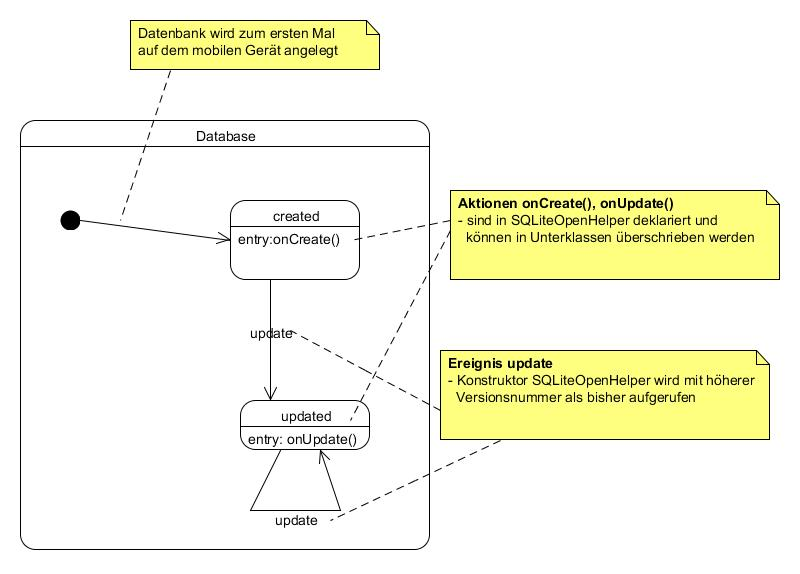
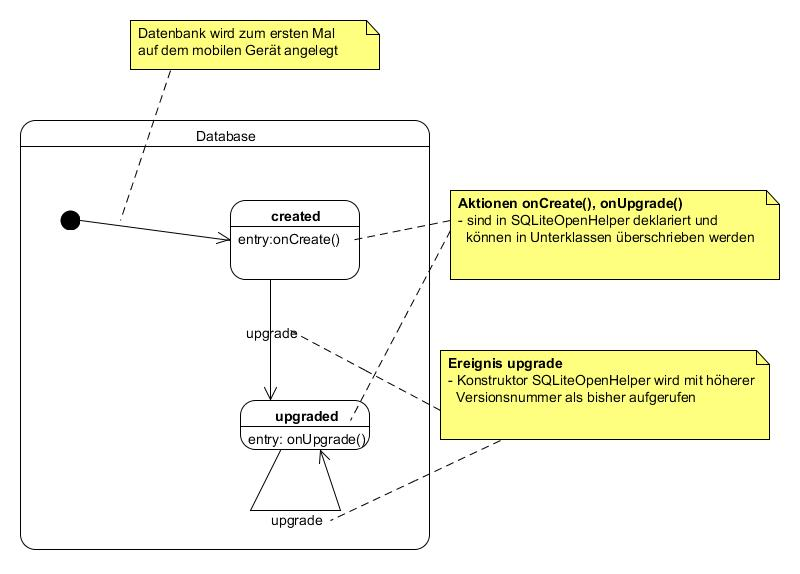
PersonDB model update -> upgrade PersonDB insert initial data into DB - use insert() instead SQL-code due to errors on some devices

diff --git a/PersonDB/src/de/htw/selabs/android/namenmanagement/database/PersonTable.java b/PersonDB/src/de/htw/selabs/android/namenmanagement/database/PersonTable.java
@@ -1,62 +1,80 @@
 package de.htw.selabs.android.namenmanagement.database;
 
+import android.content.ContentValues;
 import android.database.sqlite.SQLiteDatabase;
+import android.provider.SyncStateContract.Columns;
 import android.util.Log;
 
 /**
- * Represents a database table. Has information about the table, e.g. its name and the 
- * name of the columns.
+ * Represents a database table. Has information about the table, e.g. its name
+ * and the name of the columns.
+ * 
  * @author baar
- *
+ * 
  */
 
 public class PersonTable {
 
-	static final String TABLE_NAME = "person"; 
+	static final String TABLE_NAME = "person";
 	// columns of database table
-	static final String COL_ROWID = "_id"; // never change, Android relies on it!!!
-	public static final String COL_FIRSTNAME = "firstname"; 
-	public static final String COL_LASTNAME = "lastname"; 
-	public static final String COL_EMAIL = "email"; 
-	
-	// database creation SQL statement
-	private static final String SQL_DATABASE_CREATE = "create table " + TABLE_NAME + " (" 
-	   + COL_ROWID + " integer primary key autoincrement, "
-	   + COL_FIRSTNAME + " text not null, "
-	   + COL_LASTNAME + " text not null, "
-	   + COL_EMAIL + " text "
-	   + ");";
-	
-	private static final String SQL_DATABASE_INITDATA = "insert into " + TABLE_NAME + " (" 
-			   + COL_FIRSTNAME + ", "
-			   + COL_LASTNAME + ", "
-			   + COL_EMAIL + ""
-			   + ")"
-			   + " values " 
-			   + "('thomas', 'baar', 'thomas.baar@htw-berlin.de'), "
-			   + "('peter', 'puschmann', NULL) "
-			   + ";";
-			
-	// database creation SQL statement
-	//TODO: Does not work when Table was renamed 
-	private static final String SQL_DATABASE_DROP = "DROP table IF EXISTS " + TABLE_NAME; 
+	static final String COL_ROWID = "_id"; // never change, Android relies on
+											// it!!!
+	public static final String COL_FIRSTNAME = "firstname";
+	public static final String COL_LASTNAME = "lastname";
+	public static final String COL_EMAIL = "email";
 
-	
+	// database creation SQL statement
+	private static final String SQL_DATABASE_CREATE = "create table "
+			+ TABLE_NAME + " (" + COL_ROWID
+			+ " integer primary key autoincrement, " + COL_FIRSTNAME
+			+ " text not null, " + COL_LASTNAME + " text not null, "
+			+ COL_EMAIL + " text " + ");";
+
+	private static final String SQL_DATABASE_INITDATA = "insert into "
+			+ TABLE_NAME + " (" + COL_FIRSTNAME + ", " + COL_LASTNAME + ", "
+			+ COL_EMAIL + "" + ")" + " values "
+			+ "('thomas', 'baar', 'thomas.baar@htw-berlin.de'), "
+			+ "('peter', 'puschmann', NULL) " + ";";
+
+	// database creation SQL statement
+	// TODO: Does not work when Table was renamed
+	private static final String SQL_DATABASE_DROP = "DROP table IF EXISTS "
+			+ TABLE_NAME;
+
 	static void onCreate(SQLiteDatabase db){
 		Log.d(PersonTable.class.getName(), "Create Tables with SQL-code: " + SQL_DATABASE_CREATE);
 		db.execSQL(SQL_DATABASE_CREATE);
 		
-		Log.d(PersonTable.class.getName(), "Init Tables with SQL-code: " + SQL_DATABASE_INITDATA);
-		db.execSQL(SQL_DATABASE_INITDATA);
+		// commented out due to errors in some Android-versions
+		//		Log.d(PersonTable.class.getName(), "Init Tables with SQL-code: " + SQL_DATABASE_INITDATA);
+		//	db.execSQL(SQL_DATABASE_INITDATA);
+		
+		Log.d(PersonTable.class.getName(), "Init Tables ...");
+		ContentValues values = new ContentValues();
+		
+		// first person
+		values.put(PersonTable.COL_FIRSTNAME, "thomas");
+		values.put(PersonTable.COL_LASTNAME, "baar");
+		values.put(PersonTable.COL_EMAIL, "thomas.baar@htw-berlin.de");
+		db.insert(TABLE_NAME, null, values);
+		
+		// second person
+		values.put(PersonTable.COL_FIRSTNAME, "peter");
+		values.put(PersonTable.COL_LASTNAME, "puschmann");
+		values.put(PersonTable.COL_EMAIL, "null");
+		db.insert(TABLE_NAME, null, values);
+		
 	}
-	
-	static void onUpgrade(SQLiteDatabase db, int oldVersion, int newVersion){
-		Log.d(PersonTable.class.getName(), "Upgrading database from version " 
-				+ oldVersion + " to "
-				+ newVersion + ", which will might be used to migrate the db schema. Here, we reinitialize the database");
+
+	static void onUpgrade(SQLiteDatabase db, int oldVersion, int newVersion) {
+		Log.d(PersonTable.class.getName(),
+				"Upgrading database from version "
+						+ oldVersion
+						+ " to "
+						+ newVersion
+						+ ", which will might be used to migrate the db schema. Here, we reinitialize the database");
 		db.execSQL(SQL_DATABASE_DROP);
 		onCreate(db);
 	}
-	
-	
+
 }

diff --git a/PersonDB/src/de/htw/selabs/android/namenmanagement/database/PersonDBFacade.java b/PersonDB/src/de/htw/selabs/android/namenmanagement/database/PersonDBFacade.java
@@ -22,7 +22,7 @@ public class PersonDBFacade {
 	
 	// some bookkeeping information on the database
 	static final String DATABASE_FILE_NAME = "persondb";
-	static final int DATABASE_VERSION = 6;
+	static final int DATABASE_VERSION = 8;
 	
 
 
